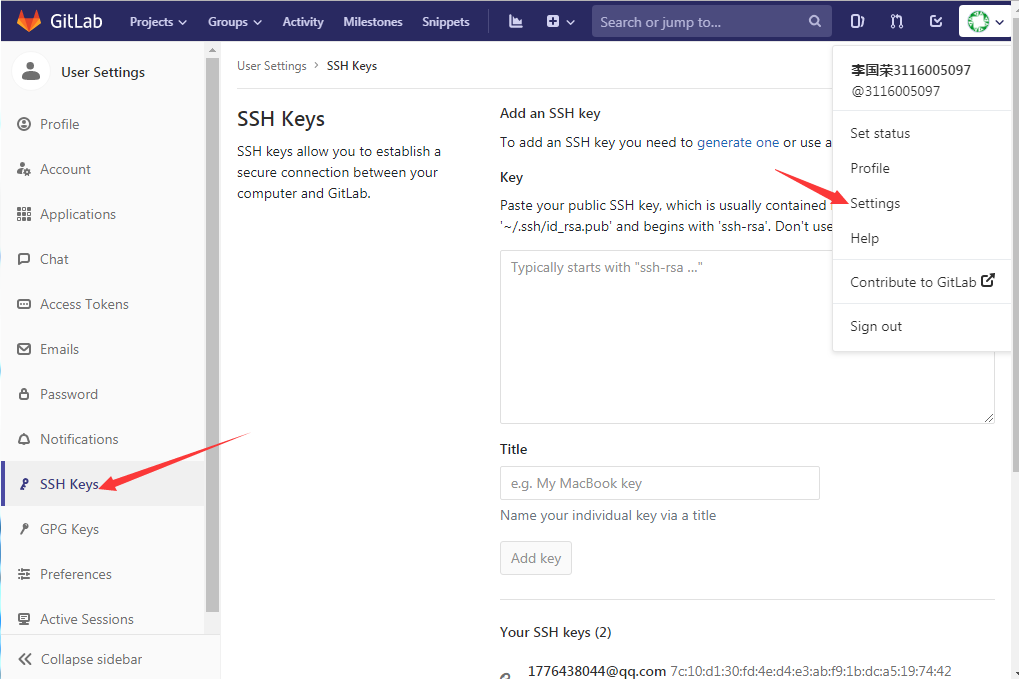
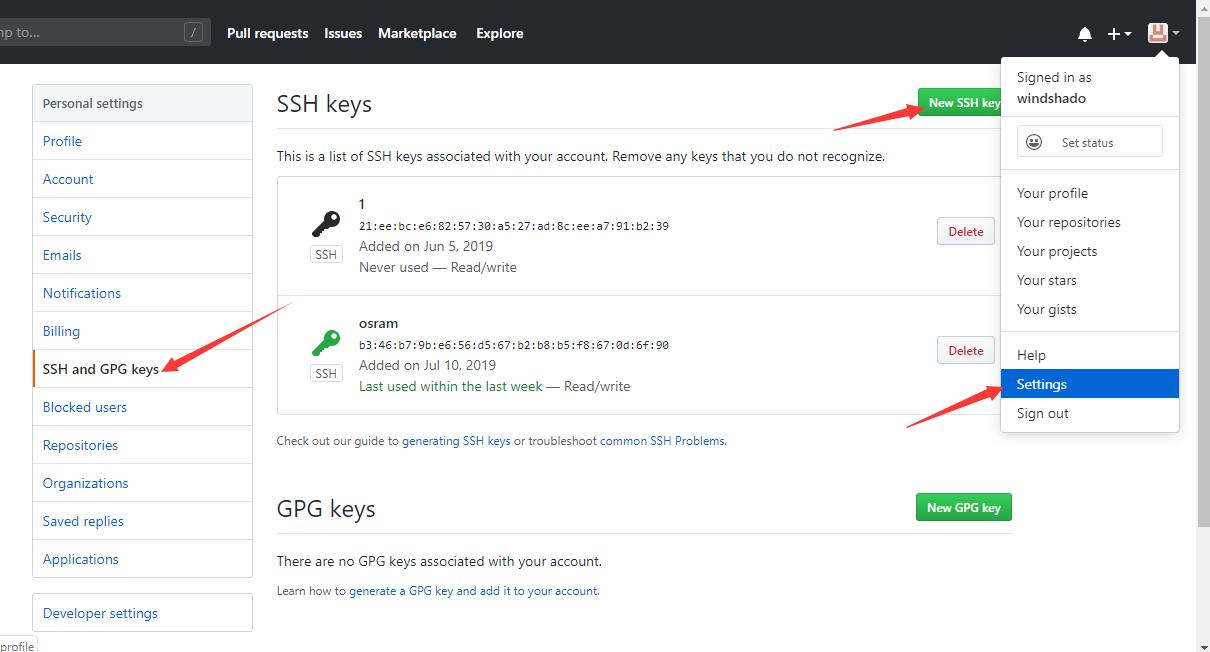
增加部分细节

diff --git a/git简单使用.md b/git简单使用.md
@@ -1,24 +1,45 @@
 # git安装
 ## 到官网下载git
+[点我下载](https://git-scm.com/download/win)
 
 ![](img/git1.JPG)
 
-## 下载完成并安装 
-![](img/git2.JPG)
+## 下载并完成安装 
+![](img/git2.JPG)<br/>
+在任意目录下，可以看到右击菜单多了一个git Bash和git GUI选项，说明已经安装成功。
 # git简单使用
 ## 用户名和邮箱配置 
+右击选择git Bash，输入
+
+		$ git config --global user.name "Your Name"
+		$ git config --global user.email "email@example.com"
+
+输入 git config --list 检查是否设置成功
 ![](img/git3.JPG)
-## 创建ssh key
+#创建本地和远程仓库
+## 创建远程仓库
+登录github账号，选择repositories-->new
+![](img/githubcreaterepositories.jpg)<br/>
+输入你的仓库名称、描述、勾选Initialize this repository with a README-->创建
+![](img/createanewrepository.jpg)<br/>
+
+
+## ssh key
+GitHub需要识别出你推送的提交确实是你推送的，而不是别人冒充的，而Git支持SSH协议，所以，GitHub只要知道了你的公钥，就可以确认只有你自己才能推送。GitHub允许你添加多个Key。假定你有若干电脑，你一会儿在公司提交，一会儿在家里提交，只要把每台电脑的Key都添加到GitHub，就可以在每台电脑上往GitHub推送了。
+###创建ssh key
+首先检查自己的账户目录下是否存在.ssh文件夹，若没有说明还没有创建ssh key<br/>
+
 打开git bash输入命令
 
-ssh-keygen -t rsa -C"1776438044@qq.com"
+		ssh-keygen -t rsa -C"email@example.com"
+创建ssh key<br/>
 
-按回车跳过自定义名称然后输入密码
+按回车跳过自定义名称然后输入密码（可以再直接按回车不设置密码）
 
 ![](img/git4.JPG)
 
-## 复制公钥
-在本地用户目录下找到".ssh"文件夹
+### 复制公钥
+在账户目录下找到".ssh"文件夹
 
 ![](img/sshlocation.JPG)
 
@@ -26,25 +47,25 @@ ssh-keygen -t rsa -C"1776438044@qq.com"
 
 ![](img/ssh.JPG)
 
-## 在gitlab中添加ssh key
-用浏览器打开我的git账户，点击头像选择 Settings——>SSH Keys
+### 在github中添加ssh key
+用浏览器打开github账户，点击头像选择 Settings——>SSH and GPG Keys-->new SSH key
 
 ![](img/addssh.JPG)
 
-把刚才复制的内容粘贴到key栏中，选择Add key
+把刚才复制的内容粘贴到key栏中，Title给这个key起个名字，选择Add SSH key
 
 ![](img/git5.JPG)
 
 ## clone项目到本地
-在本地任意目录右击选择 git GUI here
+在任意目录下右击选择 git GUI here
 
 ![](img/gitguihere.JPG)
 
-用浏览器打开我创建的远程仓库，复制项目地址
+用浏览器打开创建的远程仓库，复制项目地址
 
 ![](img/sourcelocation.JPG)
 
-把地址粘贴到git gui的source location一栏，本地地址注意要在后面加上一个不存在的目录名
+把地址粘贴到git gui的source location一栏，本地地址注意要在后面加上一个你要创建的仓库目录名
 
 ![](img/git7.JPG)
 
@@ -52,7 +73,7 @@ ssh-keygen -t rsa -C"1776438044@qq.com"
 
 ![](img/clonewait.JPG)
 
-稍等片刻
+稍等片刻，就可以把远程仓库克隆到本地仓库中了
 
 ![](img/git6.JPG)
 
